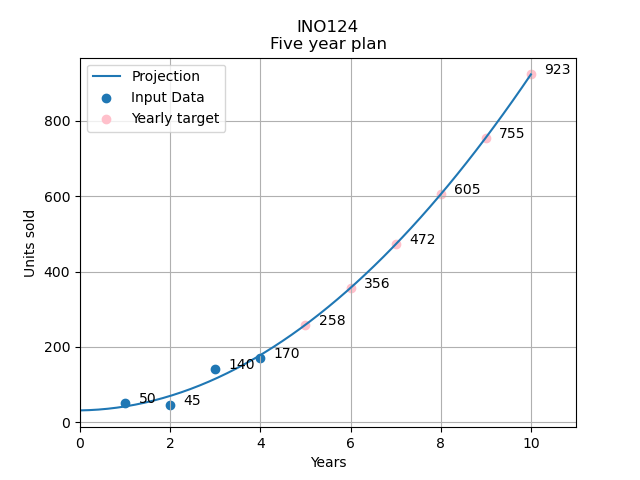
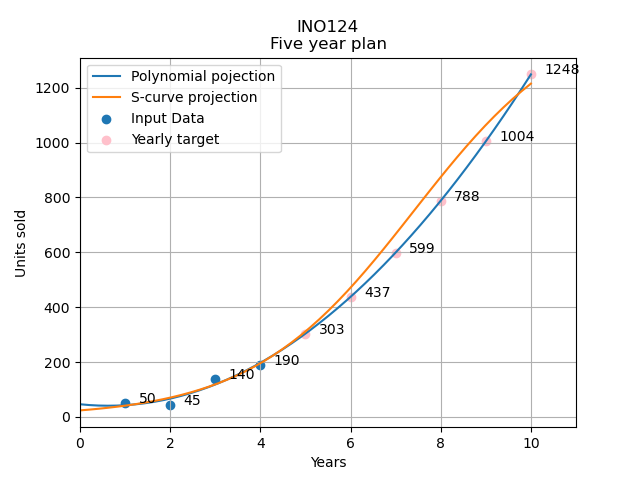
S-curve works, move to object based implementation

diff --git a/src/sell_proj.py b/src/sell_proj.py
@@ -6,6 +6,19 @@ from scipy.optimize import curve_fit
 def objective(x, a, b, c):
 	return a * x + b * x**2 + c
 
+def sobjective(x,n,groth):
+    """ S-curve fitter
+    :param t: time input
+    """
+    # m = 1500
+    # n = min(data.values[:,0])
+    # n = 50
+    m = 1500
+    return m/(1+((m-n)/n)*np.exp(-groth*x))
+
+
+
+
 start=1
 stop =10
 # Previous data
@@ -13,13 +26,22 @@ data = pd.read_csv("../data/sellingresults.csv")
 x = data.values[:,0]
 y = data.values[:,1]
 
+# polynomial
 popt, _ = curve_fit(objective, x,y)
 a,b,c = popt
+# Scureve fiting
+popt, _ = curve_fit(sobjective, x,y)
+# sm,sn = 1500,min(data.values[:,0])
+# sm,sn = 1500,50
+sm = 1500
+sn,  sg  = popt
+print(f"a,b,c={a,b,c}")
+print(sg)
 xt = np.linspace(0,10)
 yt = objective(xt,a,b,c)
+syt = sobjective(xt,sn, sg)
 xproj = np.arange(max(x)+1,stop+1)
 yproj = objective(xproj, a,b,c)
-
 
 # Plot set up
 fig, ax = plt.subplots()
@@ -31,7 +53,8 @@ plt.ylabel("Units sold")
 # Plot data
 plt.scatter(x,y, label='Input Data')
 plt.scatter(xproj,yproj, c='pink', label='Yearly target')
-plt.plot(xt,yt, label='Projection')
+plt.plot(xt,yt, label='Polynomial pojection')
+plt.plot(xt,syt, label='S-curve projection')
 for k in zip(x,y):
     tx, ty = k
     plt.text(tx + 0.3,ty,f"{int(ty)}")
